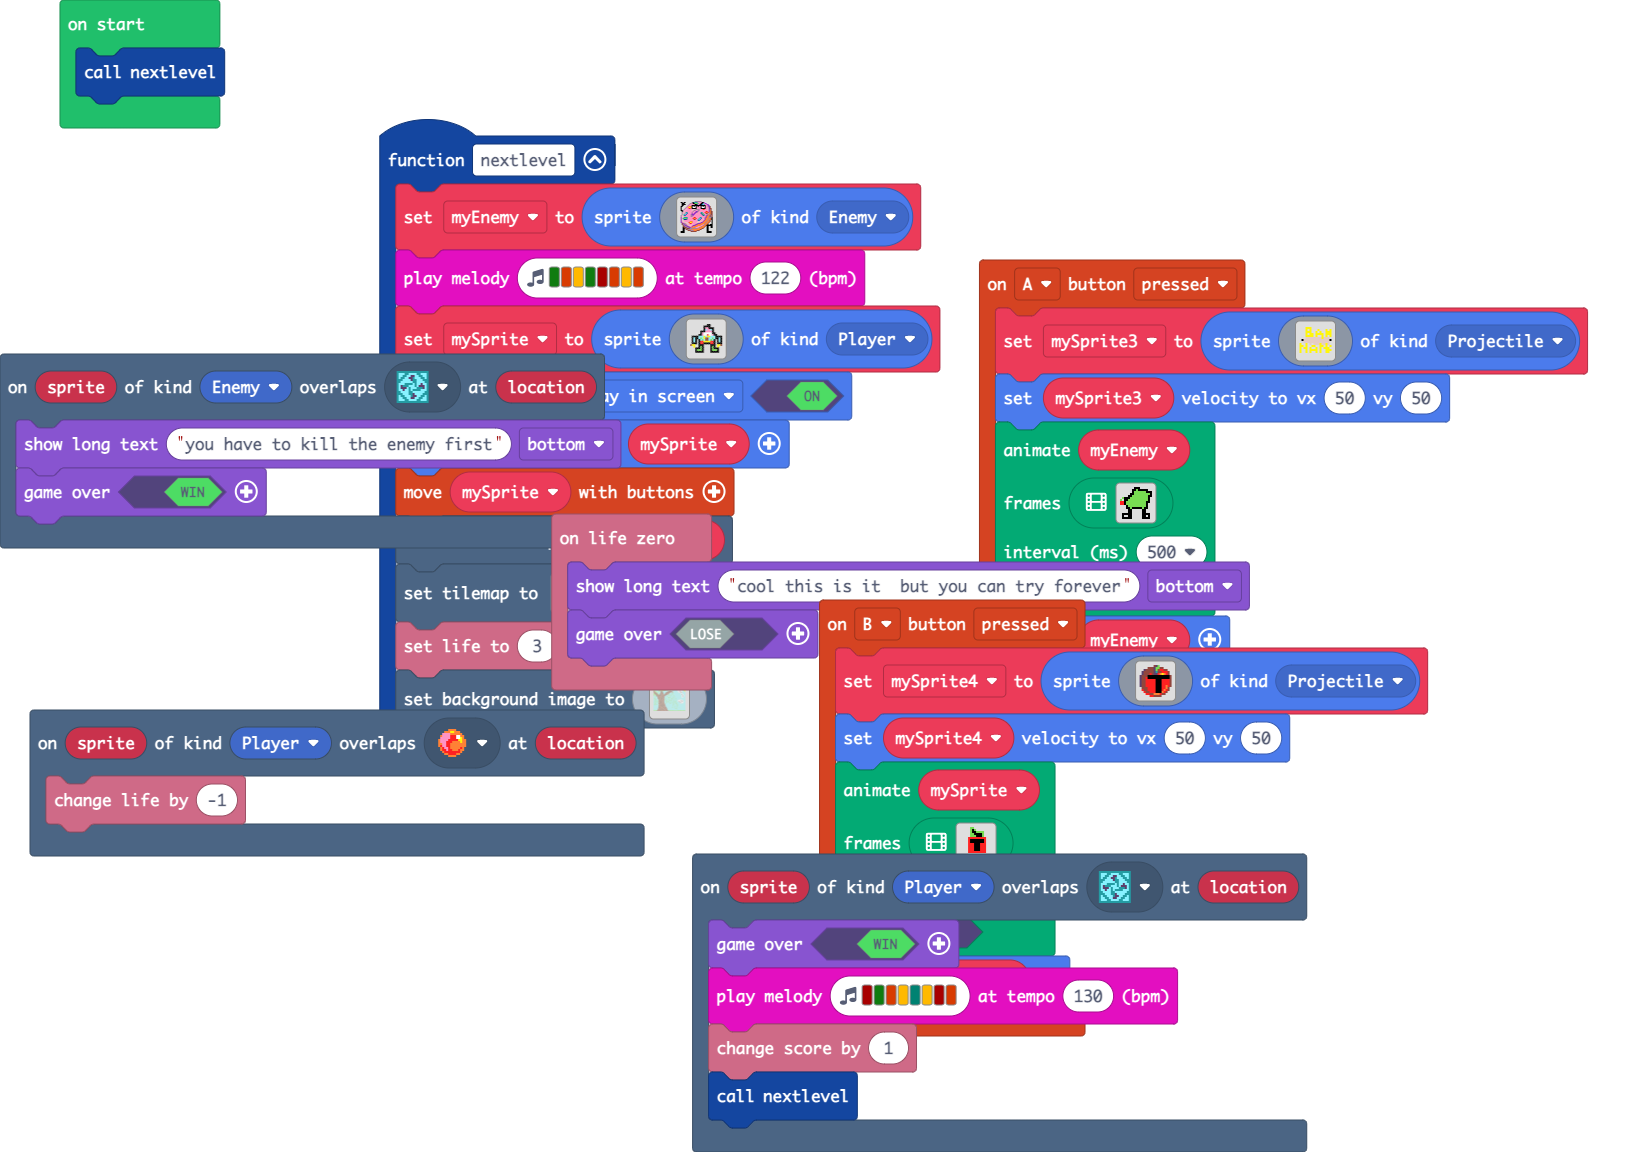
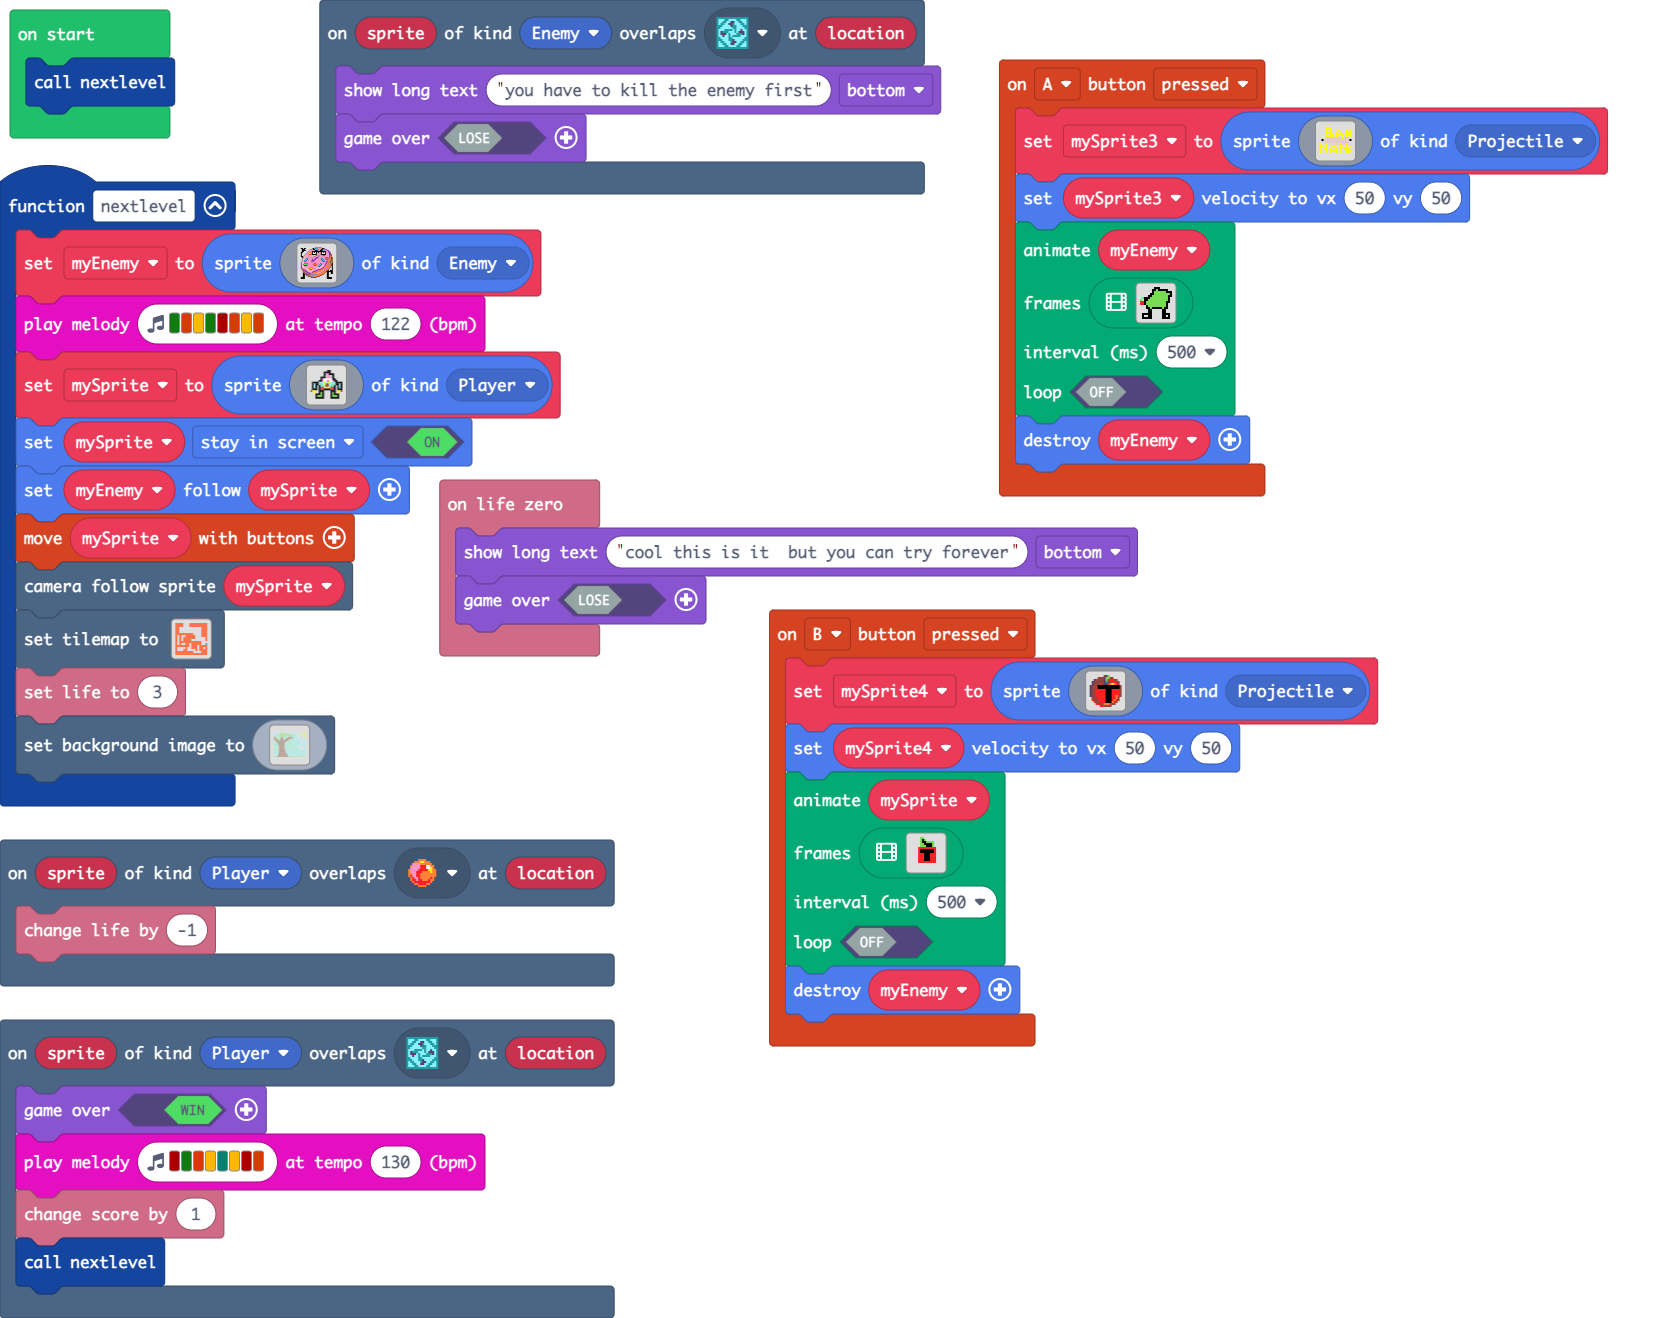
Game over als de donut niet dood is

diff --git a/main.ts b/main.ts
@@ -297,7 +297,7 @@ controller.B.onEvent(ControllerButtonEvent.Pressed, function () {
 })
 scene.onOverlapTile(SpriteKind.Enemy, sprites.dungeon.collectibleInsignia, function (sprite, location) {
     game.showLongText("you have to kill the enemy first", DialogLayout.Bottom)
-    game.over(true)
+    game.over(false)
 })
 controller.A.onEvent(ControllerButtonEvent.Pressed, function () {
     mySprite3 = sprites.create(img`
